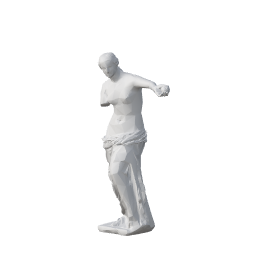
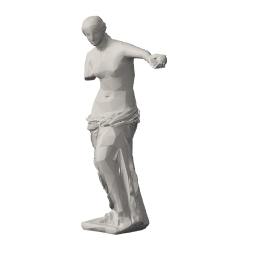
feat(venus): Ver 3.1 の本番モデルを版に設定する
- Venus_ver3.1.fbx から Venus_Ver3_1 プレハブを作り、Ver 3.0 と同じ Geometry の変換と大理石・手鏡のマテリアルを設定する
- Venus_Ver3_1 の版のモデルを仮モデルからこのプレハブに付け替える
- 仮モデルが構図から外れたので、全版のサムネイルを撮り直す
- ステップ17 のスナップ姿勢が支給モデルの Ver 3.1 と合っていないことを PLAN.md に記録する

Refs #26

Changed region(s): [[0.3125, 0.0625, 0.6875, 0.9375]]

diff --git a/docs/PLAN.md b/docs/PLAN.md
@@ -234,7 +234,7 @@ InteractionRunner (BasisNetworkBehaviour、DemoSystems/Scenario/Interaction)
   - ステップ13：線画（`StrokePart.Sketch`）を描き、音声指示する。線画の部品が終わった時点の線が `StrokeTool.LastResult` に残る。
   - ステップ14：先頭の `PlaceAtSketchCue` が、Ver 3.0 と同じメッシュの単体の手鏡（`HandMirror`）を、ステップ13 の線画の外接ボックスの中心に出す（§2.5）。その手鏡を `Goal_MirrorRightHand`（Ver 3.0 が右手に持つ手鏡の位置と向き）へ平行移動する。手鏡は置き場所 `Spawn_HandMirror` から 0.8m 以内に出るので、平行移動の最大距離（2.5m）でどこからでも目標に届く（`ScenarioSceneBindingTests` が確かめる）。
   - ステップ15：右肩〜手鏡（`Zone_RightArmToMirror`。右肩から右手の位置の手鏡までのカプセル）を範囲選択し、音声指示する。ステップが進むと舞台が手鏡を元に戻すので、ステップ15 の先頭の `MatchPoseCue` が右手の位置に置き直す。手鏡はステップ16 の先頭で非表示にし、以後は Ver 3.0 のモデルが持つ。
-  - ステップ17：右手首と手鏡（`Zone_RightHandMirror`）を範囲選択し、Ver 3.0 の右手と手鏡を半透明で写した `RightHandProxy` を、手首の支点 `Pivot_RightWrist` の上向きの軸（前腕の向き）のまわりにひねる。ステップ9 と同じく像そのものは動かさない。プロキシはステップ17 の間だけ表示し、掴む範囲は手鏡のまわりの `RightHandProxy_Grab`。範囲は -30〜+80°、+50° ± 12° で離すとスナップして完了する。スナップした角度は、Ver 3.1 の支給モデルを組み込むときに鏡面の向きと照合する。
+  - ステップ17：右手首と手鏡（`Zone_RightHandMirror`）を範囲選択し、Ver 3.0 の右手と手鏡を半透明で写した `RightHandProxy` を、手首の支点 `Pivot_RightWrist` の上向きの軸（前腕の向き）のまわりにひねる。ステップ9 と同じく像そのものは動かさない。プロキシはステップ17 の間だけ表示し、掴む範囲は手鏡のまわりの `RightHandProxy_Grab`。範囲は -30〜+80°、+50° ± 12° で離すとスナップして完了する。支給モデルの手鏡はこの関係になっていない。Ver 3.0 の時点で鏡面がほぼ顔を向いていて（頭の方向から約5°）、Ver 3.1 との差は約7°しかない。そのため +50° でスナップした姿勢は Ver 3.1 と約25°ずれ、ステップ18 の先頭で Ver 3.1 に切り替わるときに鏡の向きが跳ぶ。モデルかステップの設定を直して合わせる必要がある。
   - ステップ21：「ヴィーナス像に似合う神殿の背景を生成」と音声指示すると、認識した時点で背景パネルが目の前に開き、生成された神殿が一覧に加わる。神殿を選んで「背景を適用」を押すと完了する。背景（スカイボックスと照明）は空間全体に適用するものなので、像は選ばない。神殿への切り替えは、ステップ22 の先頭の `EnvironmentCue` が行う（§2.6）。
 
 ### 2.5 像と版の管理
@@ -254,7 +254,7 @@ InteractionRunner (BasisNetworkBehaviour、DemoSystems/Scenario/Interaction)
 | `StatueVersionCue` | 永続キュー。キーで指した像に版を表示する（空なら何も表示しない）。操作で到達する版は、操作が完了した次のステップの先頭に置く（ステップ0：腕なし、4：Ver 1.0、8：Ver 1.1、10：Ver 1.2、12：Ver 2.0、16：Ver 3.0、18：Ver 3.1。比較台はステップ19の先頭で台を表示し、ステップ20の先頭で Ver 1.0 を表示する）。版はステップ番号から決まるので、同期は不要 |
 | 履歴 | `VenusVersionHistory.Collect(ステップ列, ステップ番号, 像のキー)` が、現在より前のステップの `StatueVersionCue` がその像に表示した版を、初めて出た順に1つずつ返す |
 | `EnvironmentCue` | 永続キュー。キー `Environment` の `EnvironmentController` に環境プリセットを渡し、クロスフェードで切り替える（ステップ22「結び」の先頭で神殿へ）。後続ステップや途中参加では即時に適用する。詳細は §2.6 |
-| 本番モデル | 腕なし〜Ver 3.0 の `VenusVersion.Model` は `Art/Venus/Models/` のプレハブを参照する。各プレハブは足元を原点に置き、高さを 1.91 m にそろえる。右腕を追加する前の版は、Blender の元データと同じく右腕を非表示にする。Ver 3.1 は支給後に設定する。 |
+| 本番モデル | 全版の `VenusVersion.Model` は `Art/Venus/Models/` のプレハブを参照する。各プレハブは足元を原点に置き、高さを 1.91 m にそろえる。右腕を追加する前の版は、Blender の元データと同じく右腕を非表示にする。Ver 3.1 の FBX はメッシュに軸変換が焼き込まれておらずノードの回転で補っているが、プレハブは Ver 3.0 と同じ `Geometry` の変換で同じ位置と大きさになる。 |
 | 操作用モデル | 本体の像は `VenusVersion` に操作用モデルが設定されていればそのモデルを表示する。Ver 1.0 は林檎を分離したモデルを使い、ステップ4〜7では `Targets/Apple` が左手に乗り、操作で動く。履歴と比較台は林檎つきの全身モデルを表示する。 |
 | 小物の素材 | Ver 1.0 の操作用 FBX と編集元の `Source~/Venus_Ver1_0_Interaction.blend` は手と林檎のメッシュを持つ。単体の林檎はこの FBX を参照する。ステップ14〜15の単体の手鏡は Ver 3.0 の `Venus_HandMirror` メッシュとマテリアルを使い、手鏡を持つモデルに切り替わる時点で非表示になる。 |
 | 仮モデル | メニュー「DNP Demo/Create/Venus Versions」で、仮モデル、`VenusVersion`、カタログのうち足りないものを生成する。仮モデルの定義を更新するときは `VenusAssetBuilder.RebuildPlaceholderModel` で同じパスに再生成する。 |
